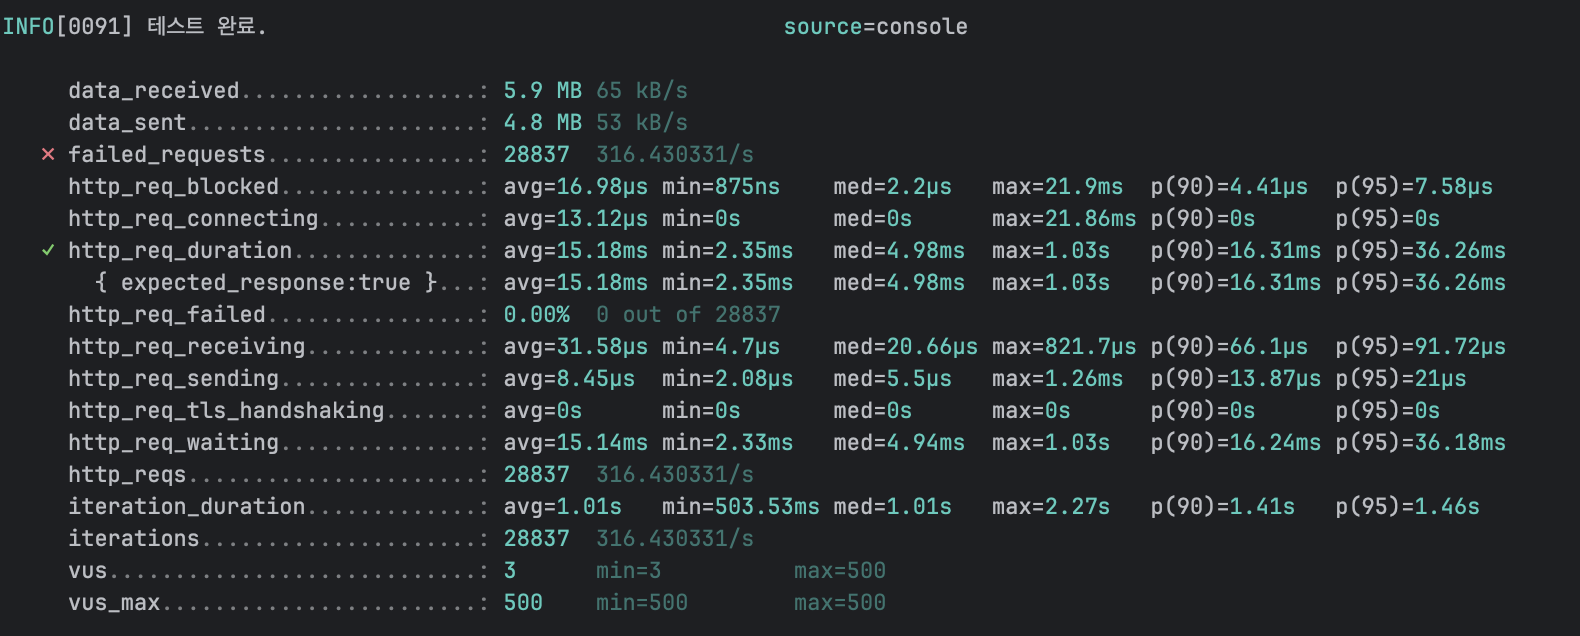
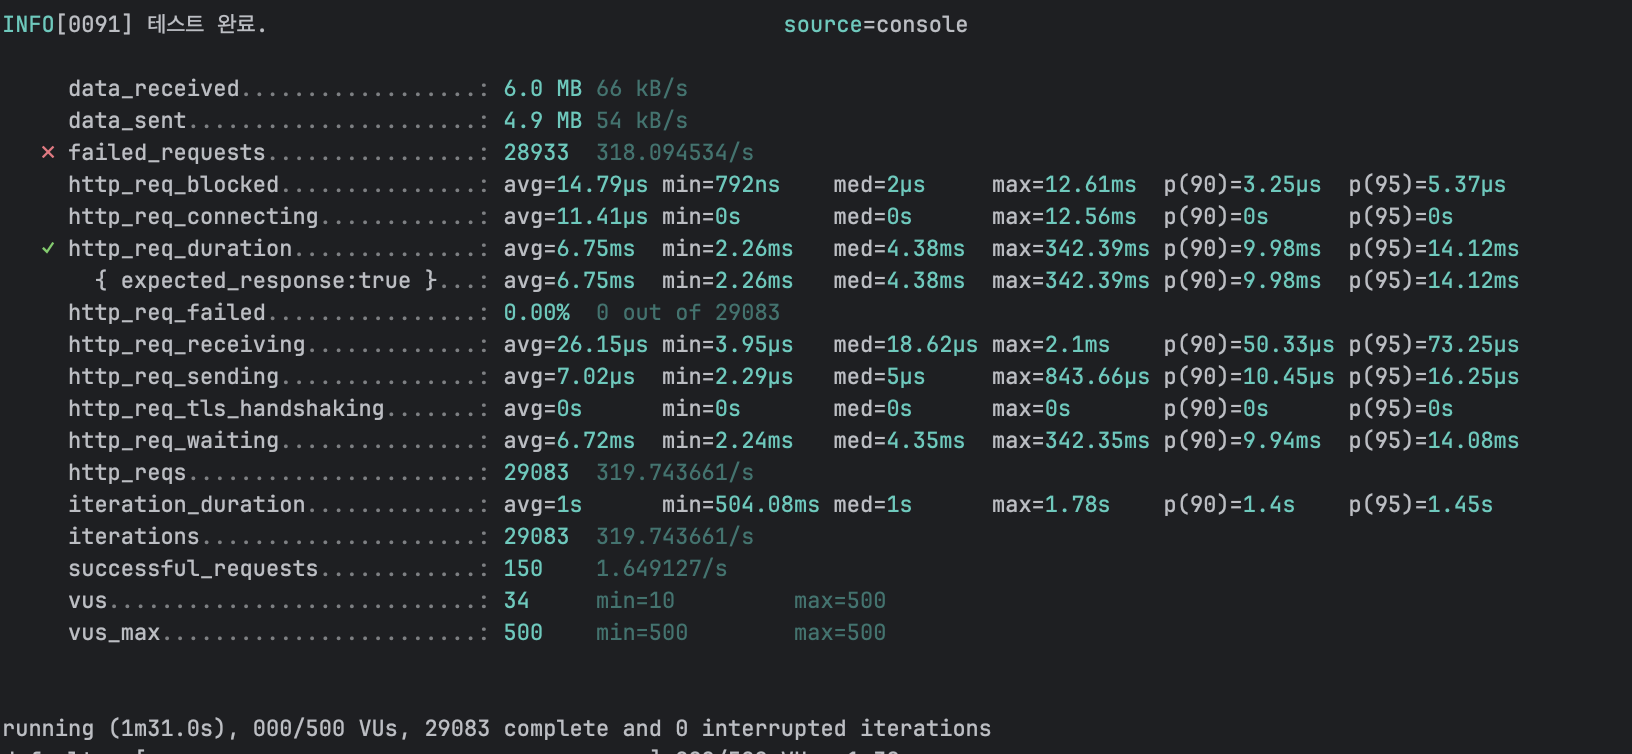
누락이미지 파일 수정

diff --git a/server-java/k6/scripts/test.js b/server-java/k6/scripts/test.js
@@ -10,15 +10,15 @@ const limitReachedCounter = new Counter('coupon_limit_reached');
 // 테스트 설정
 export const options = {
     stages: [
-        { duration: '10s', target: 100 },  // 10초 동안 100명으로 증가
-        { duration: '20s', target: 300 },  // 20초 동안 300명으로 증가
-        { duration: '30s', target: 500 },  // 30초 동안 500명으로 증가
-        { duration: '20s', target: 500 },  // 20초 동안 500명 유지
-        { duration: '10s', target: 0 },    // 10초 동안 0명으로 감소
+        { duration: '10s', target: 100 },
+        { duration: '20s', target: 300 },
+        { duration: '30s', target: 500 },
+        { duration: '20s', target: 500 },
+        { duration: '10s', target: 0 },
     ],
     thresholds: {
-        http_req_duration: ['p(95)<3000'], // 95% 요청은 3초 이내에 완료
-        'failed_requests': ['count<100'],  // 100개 미만의 실패 요청
+        http_req_duration: ['p(95)<3000'],
+        'failed_requests': ['count<100'],
     },
 };
 
@@ -31,30 +31,15 @@ const coupons = [
     { id: 5, maxCount: 30 }
 ];
 
-// 발급된 쿠폰 카운터
-const issuedCounts = {
-    1: 0,
-    2: 0,
-    3: 0,
-    4: 0,
-    5: 0
-};
-
 export default function() {
     // 랜덤 사용자 ID (1-500)
     const userId = Math.floor(Math.random() * 500) + 1;
-
     // 랜덤 쿠폰 선택
     const couponIndex = Math.floor(Math.random() * coupons.length);
     const coupon = coupons[couponIndex];
 
-    // 쿠폰 발급 제한 확인 (클라이언트 측)
-    if (issuedCounts[coupon.id] >= coupon.maxCount) {
-        console.log(`쿠폰 ${coupon.id}의 발급 한도 도달 (${issuedCounts[coupon.id]}/${coupon.maxCount})`);
-        limitReachedCounter.add(1);
-        sleep(0.5);
-        return;
-    }
+    // 클라이언트 측 쿠폰 발급 제한 검사 제거
+    // 대신 서버가 쿠폰 한도를 관리하므로 요청을 보냄
 
     // API 엔드포인트 URL
     const url = `http://host.docker.internal:8080/coupon/users/${userId}/coupon/${coupon.id}`;
@@ -69,58 +54,47 @@ export default function() {
     // POST 요청 전송
     const response = http.post(url, null, params);
 
-    // 응답 확인
+    // 응답 처리
     if (response.status === 200) {
         try {
             const responseBody = JSON.parse(response.body);
-
             if (responseBody.result_code === 200) {
-                // 성공적으로 발급됨
-                issuedCounts[coupon.id]++;
                 successCounter.add(1);
-                console.log(`쿠폰 ${coupon.id} 발급 성공 (사용자: ${userId}). 현재 발급량: ${issuedCounts[coupon.id]}/${coupon.maxCount}`);
-
+                // 디버그 로그는 주석 처리하거나 필요 시 조건부로 출력
+                // console.log(`쿠폰 ${coupon.id} 발급 성공 (사용자: ${userId})`);
             } else {
-                // API 오류
                 failureCounter.add(1);
-                console.log(`API 오류: ${responseBody.message}`);
+                // console.log(`API 오류: ${responseBody.message}`);
             }
         } catch (e) {
-            // 응답 파싱 오류
             failureCounter.add(1);
-            console.log(`응답 파싱 오류: ${e}`);
+            // console.log(`응답 파싱 오류: ${e}`);
         }
     } else if (response.status === 400) {
         try {
             const responseBody = JSON.parse(response.body);
-
-            // 쿠폰 한도 도달 여부 확인
             if (responseBody.message && responseBody.message.includes("limit reached")) {
-                console.log(`서버 응답: 쿠폰 ${coupon.id} 한도 도달`);
-                issuedCounts[coupon.id] = coupon.maxCount;
+                // 서버에서 한도 도달로 판단
                 limitReachedCounter.add(1);
+                // console.log(`서버 응답: 쿠폰 ${coupon.id} 한도 도달`);
             } else {
                 failureCounter.add(1);
-                console.log(`요청 오류: ${responseBody.message}`);
+                // console.log(`요청 오류: ${responseBody.message}`);
             }
         } catch (e) {
             failureCounter.add(1);
-            console.log(`응답 파싱 오류: ${e}`);
+            // console.log(`응답 파싱 오류: ${e}`);
         }
     } else {
-        // 기타 HTTP 오류
         failureCounter.add(1);
-        console.log(`HTTP 오류: ${response.status}`);
+        // console.log(`HTTP 오류: ${response.status}`);
     }
 
     // 요청 간 대기 시간
-    sleep(Math.random() * 1 + 0.5); // 0.5-1.5초 대기
+    sleep(Math.random() * 1 + 0.5); // 0.5 ~ 1.5초 대기
 }
 
 // 테스트 완료 후 실행
 export function teardown() {
-    console.log("테스트 완료. 최종 쿠폰 발급 현황:");
-    for (const coupon of coupons) {
-        console.log(`쿠폰 ${coupon.id}: ${issuedCounts[coupon.id]}/${coupon.maxCount}`);
-    }
+    console.log("테스트 완료.");
 }
